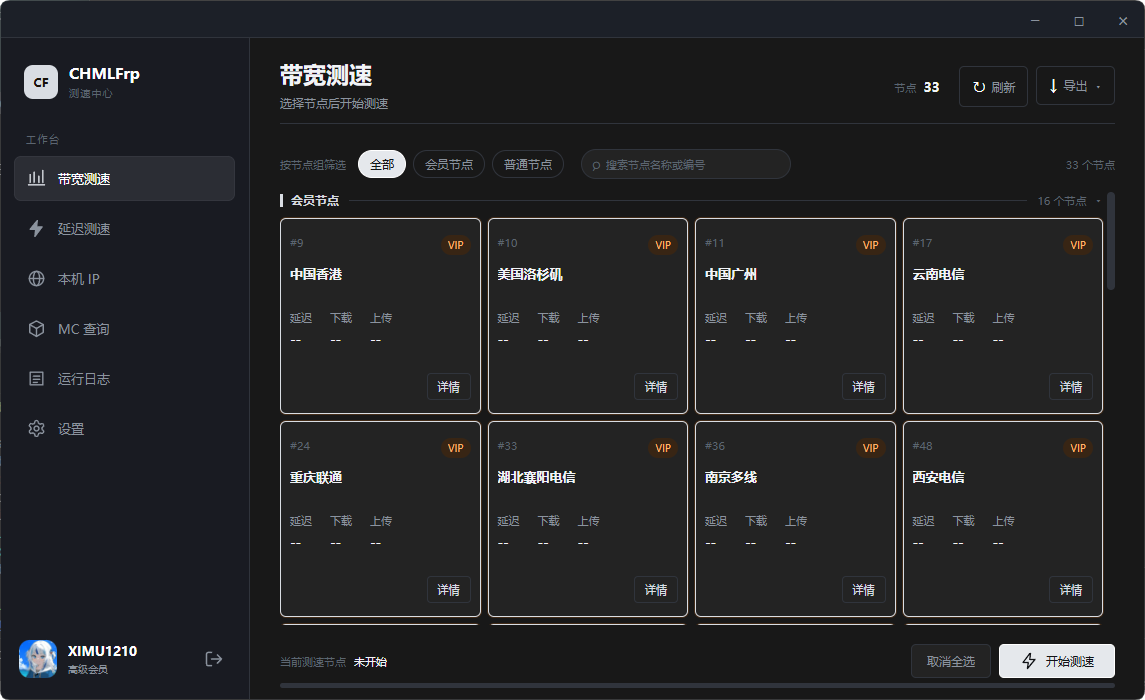
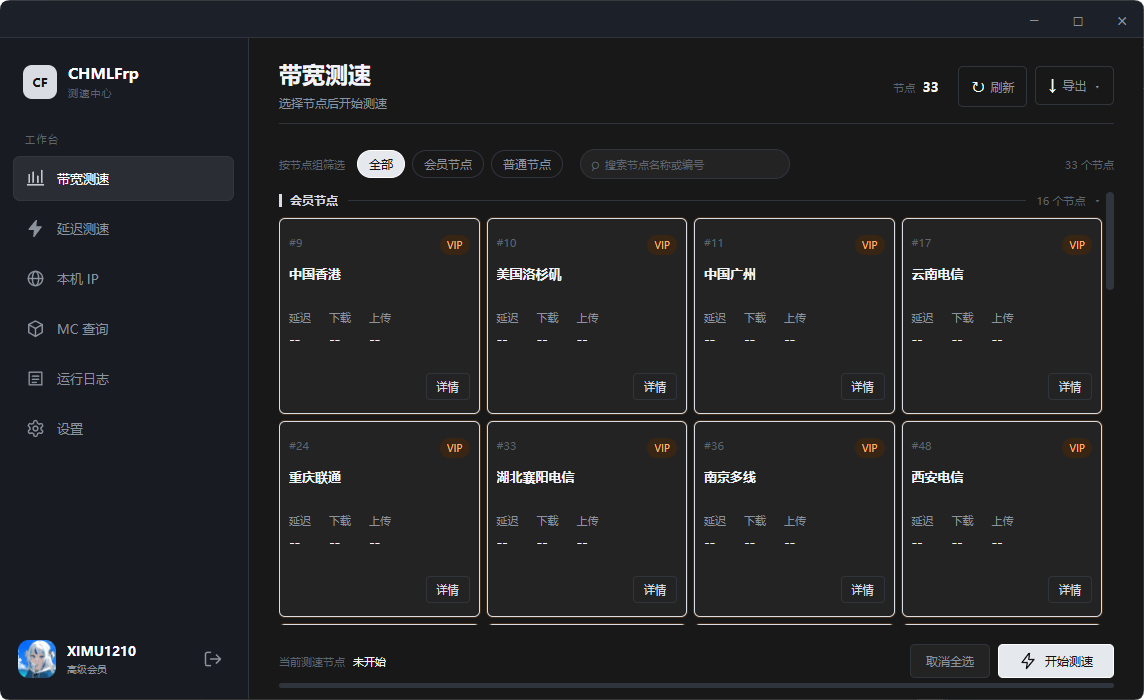
docs: 修改README

diff --git a/README.md b/README.md
@@ -23,18 +23,18 @@
 
 ## 当前状态
 
-| 模块 | 状态 | 说明 |
-| --- | --- | --- |
-| 节点数据 | ✅ 可用 | 从 `https://cf-v2.uapis.cn/node` 拉取并渲染为节点卡片；节点列表免登录，节点真实 IP 需登录后经 `/nodeinfo` 获取 |
-| 带宽测速 | ✅ 可用 | frpc 隧道 + 本地回环实测上下行吞吐；需登录，测速期间临时创建隧道（占用配额并消耗流量），测完立即删除；隧道数可并行 |
-| 延迟测速 | ✅ 可用 | 真实 TCPing；需登录；并行探测 `7000`、`80`、`81` 端口，按丢包率和延迟排序 |
-| CSV / PNG 导出 | ✅ 可用 | 通过系统保存对话框导出 |
-| 本机 IP / 公网归属地 | ✅ 可用 | 本机地址由系统枚举，公网信息来自 ipwho.is（优先 IPv6，失败回落 IPv4；含大洲、首都、区号、时区、旗帜等） |
-| MC 服务器查询 | ✅ 可用 | Java 版 Server List Ping（含 `_minecraft._tcp` SRV 解析）与基岩版 RakNet Ping，手写协议编解码，不依赖第三方库 |
-| 运行日志 | ✅ 可用 | 按天落盘保留 7 天，可导出成文件；界面保留最近 1000 条 |
-| 托盘、开机自启、主题 | ✅ 可用 | 开机自启行为随平台实现不同 |
-| OAuth2/OIDC 登录 | ✅ 可用 | 内置 Public Client `client_id`，浏览器确认设备码授权，支持环境变量覆盖 |
-| 自动更新 | ✅ Windows 可用 | GitHub Releases 检查 + SHA256 校验 + 独立更新程序替换；非 Windows 仅提示前往下载 |
+| 模块 | 状态          | 说明 |
+| --- |---------------| --- |
+| 节点数据 | 可用          | 从 `https://cf-v2.uapis.cn/node` 拉取并渲染为节点卡片；节点列表免登录，节点真实 IP 需登录后经 `/nodeinfo` 获取 |
+| 带宽测速 | 可用          | frpc 隧道 + 本地回环实测上下行吞吐；需登录，测速期间临时创建隧道（占用配额并消耗流量），测完立即删除；隧道数可并行 |
+| 延迟测速 | 可用          | 真实 TCPing；需登录；并行探测 `7000`、`80`、`81` 端口，按丢包率和延迟排序 |
+| CSV / PNG 导出 | 可用          | 通过系统保存对话框导出 |
+| 本机 IP / 公网归属地 | 可用          | 本机地址由系统枚举，公网信息来自 ipwho.is（优先 IPv6，失败回落 IPv4；含大洲、首都、区号、时区、旗帜等） |
+| MC 服务器查询 | 可用          | Java 版 Server List Ping（含 `_minecraft._tcp` SRV 解析）与基岩版 RakNet Ping，手写协议编解码，不依赖第三方库 |
+| 运行日志 | 可用          | 按天落盘保留 7 天，可导出成文件；界面保留最近 1000 条 |
+| 托盘、开机自启、主题 | 可用          | 开机自启行为随平台实现不同 |
+| OAuth2/OIDC 登录 | 可用          | 内置 Public Client `client_id`，浏览器确认设备码授权，支持环境变量覆盖 |
+| 自动更新 |  Windows 可用 | GitHub Releases 检查 + SHA256 校验 + 独立更新程序替换；非 Windows 仅提示前往下载 |
 
 ## 使用带宽测速
 
@@ -64,15 +64,6 @@
 
 测速参数：每个节点 TCPing 4 次、单次超时 3 秒、最大并发 20；丢包率超过 50% 的节点不计入排行榜。节点可连端口并不统一，`7000`、`80`、`81` 会并行探测，取第一个可连通者用于测速（不硬编码单一端口）。
 
-## 登录配置（可选覆盖）
-
-登录使用 OAuth 2.0 设备码授权流程（RFC 8628），不使用或保存 `client_secret`。点击登录后，应用会在系统浏览器中打开授权确认页并显示配对码（形如 `XXXX-XXXX`）；在浏览器中确认后应用自动完成登录，不需要手动输入配对码，也不需要配置本地回调地址。应用已内置 Public Client `client_id`，通常无需额外配置。如需在开发环境切换客户端，可以设置：
-
-```powershell
-$env:QZHUA_CLIENT_ID = "你的 client_id"
-```
-
-应用的授权请求范围（scope）为 `profile offline_access chmlfrp_api`；邮箱等账户资料由 CHMLFrp `/userinfo` 接口获取。更换 client_id 时，需要保证新客户端在账户中心开启设备码授权并使用兼容的 scope。
 
 ## 环境要求
 
@@ -130,33 +121,6 @@ MC_LIVE=1 go test -tags desktop,production -run TestLive -v .
 - `.github/workflows/ci.yml`：push 到 `main`/`master` 或提 PR 时自动跑 `go vet` 与 `go test`（windows-latest）。
 - `.github/workflows/release.yml`：**手动触发**时三端打包；推送 `v*` tag 时额外发布到 GitHub Release（自动更新的数据源）。
 
-## 自动更新与发布
-
-Windows 版本内置自动更新：启动后静默检查 GitHub Releases，发现新版本时展示更新公告，确认后后台流式下载、校验 SHA256、解压，再由独立的 `updater.exe` 在主程序退出后替换文件并重启。
-
-- 检查源：`https://api.github.com/repos/Xi-Mu12/CHMLFrp-SpeedTest/releases/latest`（公开仓库，匿名访问，客户端不含任何 Token）。
-- 安装包命名固定：`CHMLFrp-SpeedTest-windows-amd64.zip`，内含 `CHMLFrp-SpeedTest.exe` 与 `updater.exe`。
-- 校验：使用 Release Asset 的 `digest`（`sha256:` 格式）；摘要缺失直接拒绝安装。
-- 安装：先备份旧文件，替换失败自动回滚；ZIP 解压拒绝路径穿越与符号链接。
-- 跳过版本、自动检查开关、最近检查时间保存在 `settings.json`，自动检查每 12 小时最多一次。
-- 非 Windows 平台暂不支持自动安装，界面会退化为"前往下载"。
-
-发布新版本：
-
-```bash
-git tag v1.2.0
-git push origin v1.2.0
-```
-
-CI 会用 tag 注入 `-X main.version=v1.2.0` 并构建 `updater.exe`。**Release 的说明（body）就是客户端展示的更新公告**，它取自 `.github/release-notes/current.md`：打 tag 前先改这个文件并提交，再把 tag 推上去。
-
-写公告时注意排版，前端是用 `textContent` 原样渲染的，不做 Markdown 解析：
-
-- 可用：空行分段、`·` 或 `-` 开头的行、「新增 / 优化 / 修复」这类纯文本小标题。
-- 不要用：`#` 标题、`**粗体**`、表格、引用块、代码块——这些语法会原样出现在更新弹窗里。
-
-> 注意：GitHub 在部分网络环境下直连不稳定。客户端会遵循系统代理设置（`HTTP(S)_PROXY`）；若目标用户普遍无代理，后续可考虑自有镜像或 CDN 转发，但下载源仍需固定，不能让客户端接受任意 URL。
-
 ## 项目结构
 
 根目录下的 Go 文件按职责分组如下（分组只是便于阅读，实际都在根目录）：
@@ -213,6 +177,14 @@ CI 会用 tag 注入 `-X main.version=v1.2.0` 并构建 `updater.exe`。**Releas
 - [GitHub Releases](https://github.com/Xi-Mu12/CHMLFrp-SpeedTest/releases)：自动更新源，公开仓库匿名访问，客户端不含任何 Token；只用 `releases/latest`，自动排除 Draft 与 Pre-release。
 - QZhua OIDC 服务：仅在配置 `QZHUA_CLIENT_ID` 后用于账户登录。
 
+## 贡献
+
+欢迎提交 Issue 和 Pull Request！
+
+### Pull Request要求
+
+- 当编写代码时必须是develop分支，提交pr时必须指向develop分支
+- 当`git commit`时请遵循**Conventional Commits**规范
 ## 法律与隐私
 
 - [隐私政策](https://xi-mu12.github.io/CHMLFrp-SpeedTest/privacy.html)
